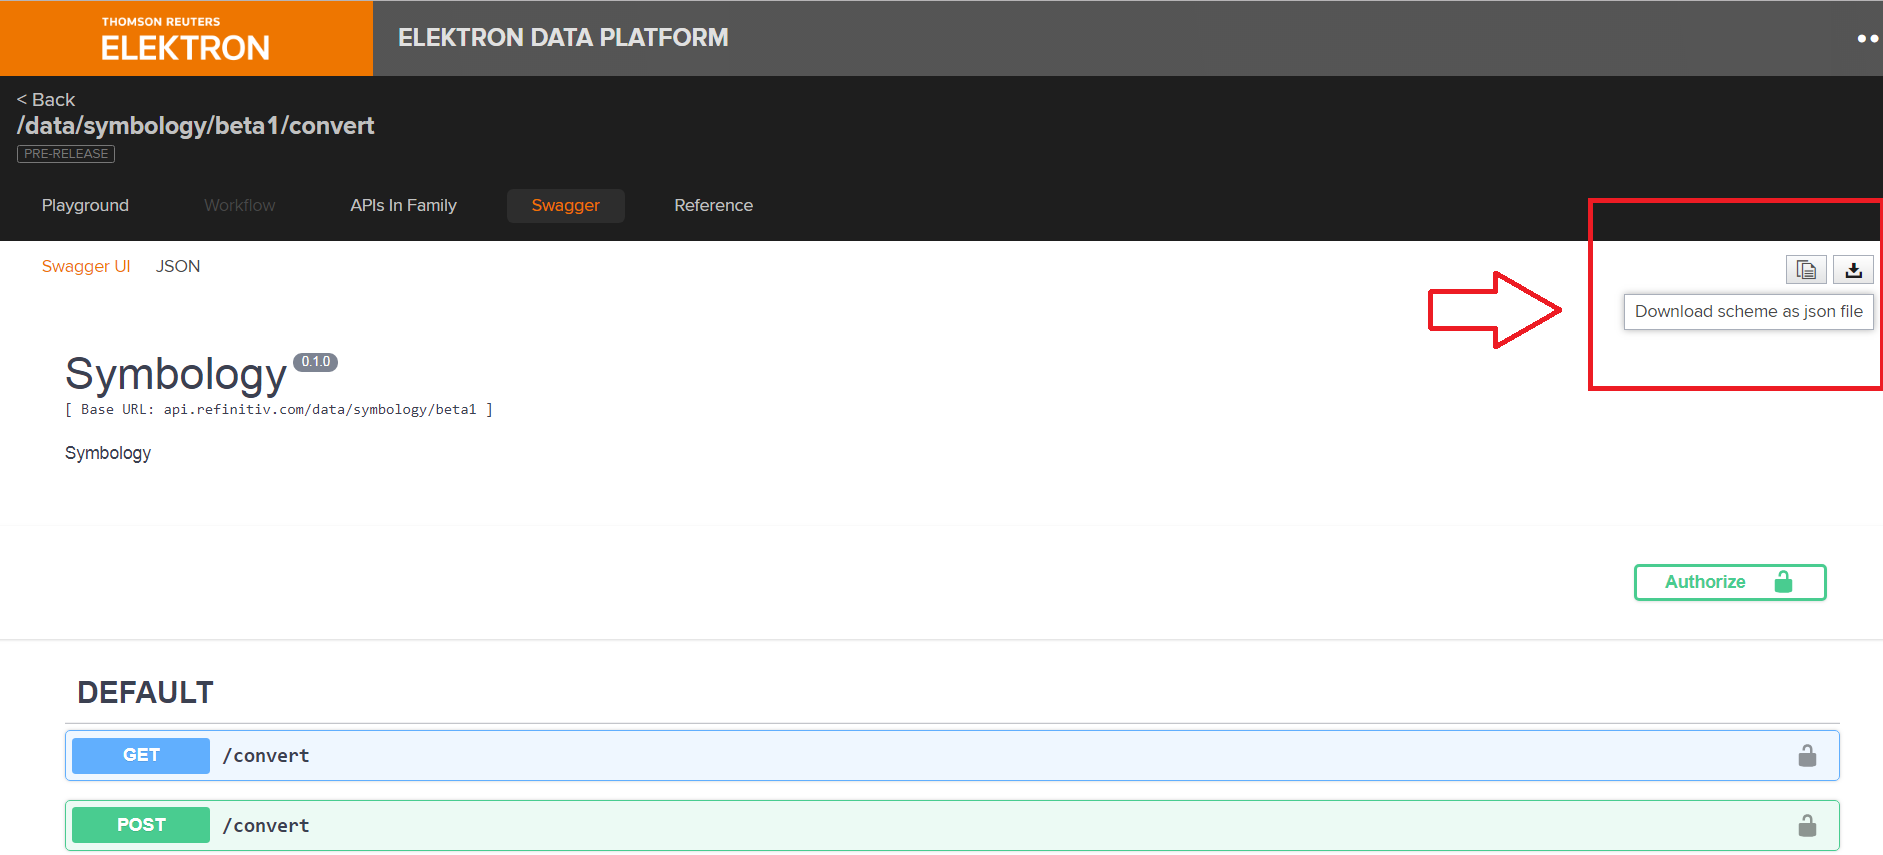
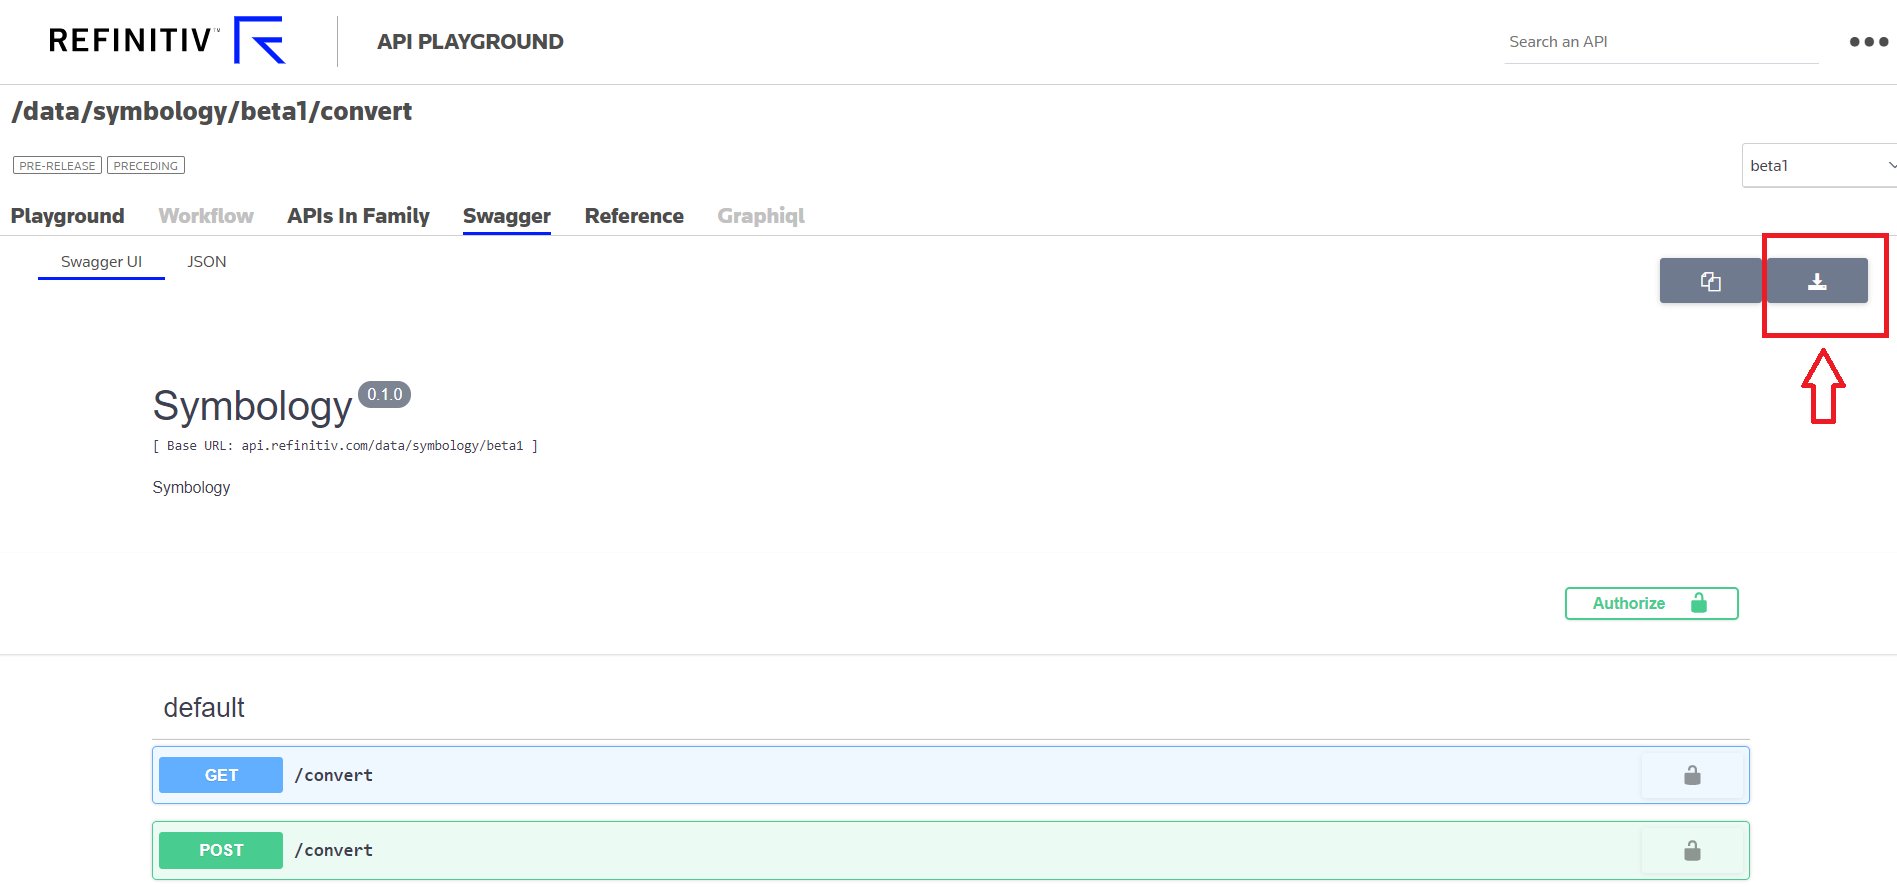
update README for RDP and update images

diff --git a/README.md b/README.md
@@ -1,14 +1,14 @@
-# Using EDP Symbology Conversion Service with .NET Core
+# Using RDP Symbology Conversion Service with .NET Core
 
 ## Introduction
 
-Symbology Conversion service is one of the REST API provided under the [Elektron Data Platform (EDP)](https://developers.thomsonreuters.com/elektron-data-platform/elektron-data-platform-apis). It leverages existing services that underly Refinitiv products, to create an aggregated list of functionality needed in the Symbology service. The Conversion method allows users to convert identifiers from one type to another. For example, the user can use the Conversion method to convert ISIN or CUSIP to Refinitiv RIC with additional information about the company.
+Symbology Conversion service is one of the REST API provided under the [Refinitiv Data Platform (RDP)](developers.refinitiv.com/elektron-data-platform/elektron-data-platform-apis). It leverages existing services that underly Refinitiv products, to create an aggregated list of functionality needed in the Symbology service. The Conversion method allows users to convert identifiers from one type to another. For example, the user can use the Conversion method to convert ISIN or CUSIP to Refinitiv RIC with additional information about the company.
 
 There are two parts in this article the first part is detailed about the Symbology Conversion method including details about the request and response message for the Conversion service. The second part is the details about .NET Core Console example application we create to demonstrate the Symbology API usage.
 
 ## Prerequisites
 
-* Understand concepts of EDP and basic usage of the Authorization services. Please find more details from [Developer Portal](https://developers.thomsonreuters.com/elektron-data-platform/elektron-data-platform-apis/learning?content=38562&type=learning_material_item).
+* Understand concepts of RDP and basic usage of the Authorization services. Please find more details from [Developer Portal](developers.refinitiv.com/elektron-data-platform/elektron-data-platform-apis/learning?content=38562&type=learning_material_item).
 
 Required software components:
 
@@ -33,11 +33,11 @@ The convert method takes two parameters:
 
 * **Universe** (required): This takes a comma-separated list of input symbols or identifiers. Currently, maximum input symbols in the list are **100** items.
 
-* **To** (optional): This takes a comma-separated list of return fields. If not specified the convert method returns all matching return fields. Please refer to  [APIDocs](https://apidocs.edp.thomsonreuters.com/Apps/ApiDocs) page for available field list and JSON schema for the service.
+* **To** (optional): This takes a comma-separated list of return fields. If not specified the convert method returns all matching return fields. Please refer to  [APIDocs](https://apidocs.refinitiv.com/Apps/ApiDocs) page for available field list and JSON schema for the service.
 
 ### Model
 
-Below is a model of a GET Request and Post Request message. Note that the endpoint we use in this article based on the beta version of the EDP.
+Below is a model of a GET Request and Post Request message. Note that the endpoint we use in this article based on the beta version of the RDP.
 
 #### GET REQUEST
 
@@ -103,13 +103,13 @@ When a field list is specified for the To parameter the convert method converts 
 #### GET REQUEST Sample
 
 ```URL
-https://api.edp.thomsonreuters.com/data/symbology/beta1/convert?universe=IBM.N@RIC&from=RIC&to=ISIN,CUSIP
+https://api.refinitiv.com/data/symbology/beta1/convert?universe=IBM.N@RIC&from=RIC&to=ISIN,CUSIP
 ```
 
 #### POST REQUEST Sample
 
 ````Json
-Endpoint URL: https://api.edp.thomsonreuters.com/data/symbology/beta1/convert
+Endpoint URL: https://api.refinitiv.com/data/symbology/beta1/convert
 JSON request body:
 {
     "universe":["IBM.N","TRI.N"],
@@ -119,7 +119,7 @@ JSON request body:
 
 ### Symbology Response Instrument Field
 
-Basically, the collection format of the Conversion response is Comma-separated values(CSV) according to Swagger JSON scheme for Symbology Convert from the [APIDocs](https://apidocs.edp.thomsonreuters.com/Apps/ApiDocs) website.
+Basically, the collection format of the Conversion response is Comma-separated values(CSV) according to Swagger JSON scheme for Symbology Convert from the [APIDocs](https://apidocs.refinitiv.com/Apps/ApiDocs) website.
 
 The following JSON data is a sample of the response message from the Convert method. Please refer to a full JSON scheme for an additional field provided by the service.
 
@@ -201,13 +201,13 @@ This section describing the implementation of .NET Core example which is a conso
 
 ### Create Data Model
 
-Basically, EDP provides Swagger JSON scheme on the [APIDocs](https://apidocs.edp.thomsonreuters.com/Apps/ApiDocs) website. The developer can download the JSON scheme and use it as a reference to create a request and response message. The JSON scheme also describes the data model used by the services. Below screenshot is the Symbology service Swagger page.
+Basically, RDP provides Swagger JSON scheme on the [APIDocs](https://apidocs.refinitiv.com/Apps/ApiDocs) website. The developer can download the JSON scheme and use it as a reference to create a request and response message. The JSON scheme also describes the data model used by the services. Below screenshot is the Symbology service Swagger page.
 
 ![Symbology Convert JSON Scheme](/images/swaggerjsonscheme.png)
 
 There are two steps the example used to request data from the Symbology Conversion service.
 
-1. Get Access Token from EDS Authentication Service as described in the following [Page](https://developers.thomsonreuters.com/elektron-data-platform/elektron-data-platform-apis/learning?content=38562&type=learning_material_item).
+1. Get Access Token from EDS Authentication Service as described in the following [Page](https://developers.refinitiv.com/elektron-data-platform/elektron-data-platform-apis/learning?content=38562&type=learning_material_item).
 2. Create JSON request body for Symbology convert method and then pass it to HttpClient class with the Access Token. And then send HTTP GET or Post to Symbology Conversion endpoint.
 
 This example uses the JSON scheme from EDS Authentication service and Symbology Conversion service to generate data model in .NET Core application. The example use [NSwagStudio tool](https://github.com/RSuter/NSwag/wiki/NSwagStudio) to generate CSharp Client and data models from the JSON Scheme files.
@@ -351,7 +351,7 @@ For the output, the example will print the headers and its data to console outpu
 #### Usage
 
 The following list is the command line options generated by the application.
-It uses C# [Commandline Parser](https://github.com/commandlineparser/commandline) to generate the help page and manage the command line arguments. There are sample usage and options that the user can specify when running and setting the command line argument. Note that if you have to connect to the EDP Server through your proxy server you might need to specify the proxy server using --proxy command line option.
+It uses C# [Commandline Parser](https://github.com/commandlineparser/commandline) to generate the help page and manage the command line arguments. There are sample usage and options that the user can specify when running and setting the command line argument. Note that if you have to connect to the RDP Server through your proxy server you might need to specify the proxy server using --proxy command line option.
 
 ```
 $./EDPSymbologyConvert --help
@@ -455,7 +455,7 @@ The publish command generate application named **EDPSymbologyConvert** under the
 
 ## Running the example
 
-To test the example you must have a valid EDP username and password with permission to access Symbology Conversion service. 
+To test the example you must have a valid RDP username and password with permission to access Symbology Conversion service. 
 The following command used to request the data for RIC **IBM.N**, CUSIP **037833100** and ISIN **TH0001010014**. A user may use -o to specify a new CSV file name to save the data.
 
 A user may also use **--verbose** to print additional output such as the JSON request and response.
@@ -470,7 +470,7 @@ Below sample is output when you run the command line. It will return three sets 
 
 ```
 $./EDPSymbologyConvert --universe IBM.N,037833100,TH0001010014 -o csvoutputIBM.csv --verbose
-Start EDP(Elektron Data Platform) Symbology Convert Example application
+Start RDP(Refinitiv Data Platform) Symbology Convert Example application
 ========= Application Configuration List =============
 Universe:IBM.N,037833100,TH0001010014
 ToEnum:
@@ -478,12 +478,12 @@ Use Json File: False
 Export to CSV File:csvoutputIBM.csv True
 ======================================================
 
-Signin to EDP(Elektron Data Platform) Press Ctrl+C to cancel
+Signin to RDP(RDP Data Platform) Press Ctrl+C to cancel
 =============================
 Enter Username:GE-A-01103xxxxxxx
 Enter Password:*****************
 =============================
-Logging in to the EDP server, please wait
+Logging in to the RDP server, please wait
 
 Login Success!
 *************Token Details**************
@@ -493,7 +493,7 @@ RefreshToken=******
 Scope=trapi.admin.accounts trapi.admin.accounts.groups trapi.admin.accounts.licenses trapi.admin.accounts.users trapi.alerts.news-headlines.crud trapi.alerts.news-stories.crud trapi.alerts.news.crud trapi.alerts.research.crud trapi.auth.cloud-credentials trapi.cfs.claimcheck.read trapi.cfs.claimcheck.write trapi.cfs.publisher.read trapi.cfs.publisher.setup.write trapi.cfs.publisher.stream.write trapi.cfs.publisher.write trapi.cfs.subscriber.read trapi.data.3pri.test.read trapi.data.aggregates.read trapi.data.api.test trapi.data.esg.bulk.read trapi.data.esg.metadata.read trapi.data.esg.read trapi.data.esg.universe.read trapi.data.esg.views-basic.read trapi.data.esg.views-measures-full.read trapi.data.esg.views-measures-standard.read trapi.data.esg.views-measures.read trapi.data.esg.views-scores-full.read trapi.data.esg.views-scores-standard.read trapi.data.esg.views-scores.read trapi.data.historical-pricing.events.read trapi.data.historical-pricing.read trapi.data.historical-pricing.summaries.read trapi.data.news-story-viewer.read trapi.data.news.read trapi.data.portfolios.read trapi.data.portfolios.write trapi.data.pricing.read trapi.data.quantitative-analytics.read trapi.data.research.read trapi.data.symbology.bulk.read trapi.data.symbology.read trapi.deployment.crud trapi.metadata.read trapi.streaming.pricing.read
 TokenType=Bearer
 ****************************************
-Retrieving data from EDP Symbology Conversion service...
+Retrieving data from RDP Symbology Conversion service...
 ======== JSon Request Body =======
 {
   "to": [],
@@ -1026,7 +1026,7 @@ Writing data to csvoutputIBM.csv complete
 
 ## Summary
 
-This article explains the usage of Symbology Conversion service. It also provides an example application to demonstrate the usage of Authentication and Symbology convert method. The example can convert a symbol or list of symbols to a specified output type. EDP API user can use the example application to test the service and apply the codes from the example with another service on the EDP.
+This article explains the usage of Symbology Conversion service. It also provides an example application to demonstrate the usage of Authentication and Symbology convert method. The example can convert a symbol or list of symbols to a specified output type. RDP API user can use the example application to test the service and apply the codes from the example with another service on the RDP.
 
 ## Contributing
 
@@ -1041,8 +1041,8 @@ Please read [CONTRIBUTING.md](https://gist.github.com/PurpleBooth/b24679402957c6
 This project is licensed under the MIT License - see the [LICENSE](LICENSE) file for details
 
 ## Reference
-* [Elektron Data Platform (EDP) Learning](https://developers.thomsonreuters.com/elektron-data-platform/elektron-data-platform-apis/learning)
-* [APIDocs Swagger](https://apidocs.edp.thomsonreuters.com/)
+* [Refinitiv Data Platform (RDP) Learning](developers.refinitiv.com/elektron-data-platform/elektron-data-platform-apis)
+* [APIDocs Swagger](https://apidocs.refinitiv.com/Apps/ApiDocs)
 * [NSwagStudio](https://github.com/RSuter/NSwag/wiki/NSwagStudio)
 * [Using NSwagStudio with ASP.NET Core](https://docs.microsoft.com/en-us/aspnet/core/tutorials/getting-started-with-nswag?view=aspnetcore-2.2&tabs=visual-studio%2Cvisual-studio-xml)
 * [Dotnet Core Publish Command](https://docs.microsoft.com/en-us/dotnet/core/tools/dotnet-publish?tabs=netcore21)
